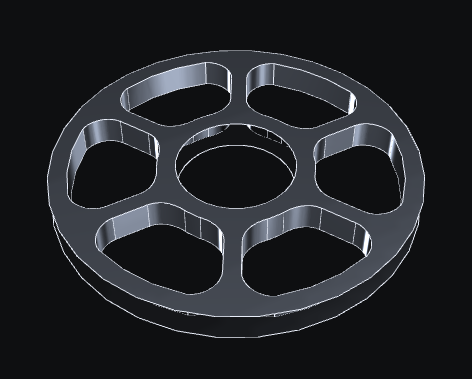
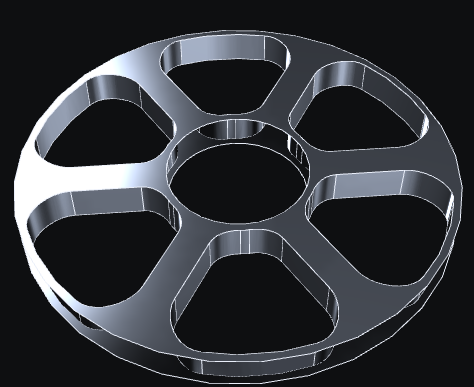
simplified required arguments of gearexterior in order to make it more convenient and flexible, improved roundings flexibility on pattern_rounded

diff --git a/madcad/gear.py b/madcad/gear.py
@@ -21,7 +21,7 @@
 		>>> ext_radius = (3*12)/(2*pi) - 3
 		>>> int_radius = 4
 		>>> geargather(
-		...		gearexterior(repeat_circular(gearprofile(3, 30), 30), ext_radius, 3, 30, depth=4),
+		...		gearexterior(repeat_circular(gearprofile(3, 30), 30), depth=4),
 		...		gearstructure('rounded', ext_radius, int_radius, 2, patterns=6),
 		...		my_hub_mesh,
 		...		)
@@ -33,7 +33,7 @@
 '''
 
 from .mathutils import *
-from .mesh import Web, Wire, Mesh, web
+from .mesh import Web, Wire, Mesh, web, wire
 from .blending import junction, blendpair
 from .generation import extrusion, revolution, repeat, extrans
 from .primitives import Circle, ArcCentered, Segment
@@ -43,7 +43,7 @@ from .rendering import show
 from .cut import bevel
 from . import settings
 
-from math import cos, sin, asin, tan
+from math import *
 from functools import reduce, partial
 from operator import add
 from copy import copy
@@ -221,22 +221,14 @@ def angle(p):
 	return atan2(p[1], p[0])
 
 
-def repeat_circular(gear_profile: Wire, z: int) -> Web:
-	"""
-	Repeat z times `gear_profile` by revolution
-
-	Parameters:
-	
-		gear_profile (Wire): Wire (profile of the pinion generated by the function `gearprofile`)
-		z (int): number of teeth
-	"""
-	# Parameters
-	angle = anglebt(gear_profile[0], gear_profile[-1])
-	axis = (vec3(0,0,0), vec3(0,0,1))
-
-	profile = repeat(gear_profile, z, rotatearound(angle, axis))
-	profile.mergeclose()
-	return profile
+def repeat_circular(profile, n: int) -> Wire:
+	''' Repeat n times the given Wire by rotation around (O,Z) '''
+	result = repeat(profile, n, rotatearound(
+		anglebt(profile[0], profile[-1]), 
+		(vec3(0,0,0), vec3(0,0,1)),
+		))
+	result.mergeclose()
+	return result
 
 
 def pattern_full(ext_radius, int_radius, depth, int_height=0, **kwargs) -> Mesh:
@@ -259,7 +251,7 @@ def pattern_full(ext_radius, int_radius, depth, int_height=0, **kwargs) -> Mesh:
 	half_depth = depth / 2
 	assert half_depth > int_height, "`int_height` must be smaller than `depth / 2`"
 	
-	axis = (vec3(0,0,0), vec3(0,0,1))
+	axis = (O, Z)
 	circles_ref = web(Circle(axis, ext_radius)) + web(Circle(axis, int_radius)).flip()
 	top_profile = circles_ref.transform(vec3(0, 0, half_depth - int_height))
 	bottom_profile = circles_ref.transform(vec3(0, 0, -half_depth + int_height)).flip()
@@ -375,10 +367,10 @@ def create_pattern_rect(
 	"""
 	# Parameters
 	half_depth = depth / 2
-	offset = ratio * 0.15 * (ext_radius - int_radius)
+	offset = ratio * 0.05 * (ext_radius - int_radius)
 	r_ext = ext_radius - (ext_thickness or offset)
 	r_int = int_radius + (int_thickness or offset)
-	thickness = ratio * r_ext / 10  # thickness of "arms"
+	thickness = ratio * 0.15 * r_ext  # thickness of "arms"
 	# angle between the bottom edge of an arm and the middle of it
 	theta_1 = asin(thickness / (2 * r_int))
 	# angle between the top edge of an arm and the middle of it
@@ -402,18 +394,24 @@ def create_pattern_rect(
 
 	# Primitives
 	pattern_ref = web([
-					Segment(A1, A2), 
-					ArcCentered((O, -Z), B1, A1), 
 					Segment(B2, B1), 
+					ArcCentered((O, -Z), B1, A1), 
+					Segment(A1, A2), 
 					ArcCentered((O, Z), A2, B2),
 					])
 
 	# Multiply the pattern of reference
 	if rounded:  # rounded case
-		groups = pattern_ref.groupextremities()
-		bevel(pattern_ref, groups, ("radius", 0.3 * (r_ext - r_int)))
+		bevel(	pattern_ref, 
+				pattern_ref.frontiers(0,1,2), 
+				('radius', min(0.3*(r_ext - r_int), r_int*(angle_step/2-theta_1))),
+				)
+		bevel(	pattern_ref, 
+				pattern_ref.frontiers(2,3,0), 
+				('radius', min(0.3*(r_ext - r_int), r_ext*(angle_step/2-theta_2))),
+				)
 		pattern_ref.mergeclose()
-	pattern_profile = repeat(pattern_ref, patterns, rotatearound(angle_step, axis))
+	pattern_profile = repeat(web(pattern_ref), patterns, rotatearound(angle_step, axis))
 
 	# Profiles and surfaces
 	webs_ref = (pattern_profile.flip(), ext_circle, int_circle)
@@ -423,6 +421,7 @@ def create_pattern_rect(
 	top_profile = reduce(add, top_webs)
 	bottom_profile = reduce(add, bottom_webs)
 	surfaces = extrusion(vec3(0, 0, depth - 2 * int_height), bottom_webs[0].flip())
+	
 	mesh = triangulation(top_profile) + triangulation(bottom_profile) + surfaces
 	mesh.mergeclose()
 	return mesh
@@ -505,9 +504,9 @@ def pattern_rounded(
 
 	
 def minmax_radius(points):
-	min, max = 0, -inf
+	min, max = inf, 0
 	for p in points:
-		r = length2(p)
+		r = length2(vec2(p))
 		if r > max:		max = r
 		elif r < min:	min = r
 	return sqrt(min), sqrt(max)
@@ -515,11 +514,9 @@ def minmax_radius(points):
 		
 
 def gearexterior(
-	profile: Web,
-	min_radius,
-	step,
-	z: int,
+	profile: Wire,
 	depth,
+	step = None,
 	helix_angle = 0,
 	chamfer = 0,
 	**kwargs,
@@ -530,19 +527,20 @@ def gearexterior(
 	Parameters:
 	
 		profile (Web):         profile of the pinion generated by `gearprofile`
-		min_radius (float):    internal radius of the external part
-		step (float):          step of chordal pitch
-		z (int):               number of teeth
 		depth (float):         extrusion eight - width of the gear along its axis
+		step (float):          step of chordal pitch, must be specified for non-null helix_angle, unused otherwise
 		helix_angle (float):   helix angle for helical gears - only without bevel; `bevel` = False - it must be a radian angle
 		chamfer (float):       chamfer angle - only for straight pinion
 	"""
 	# TODO: helical + chamfer
 
 	half_depth = depth / 2
+	
+	# resolution
+	footer, header = minmax_radius(profile.points)
+	
 	# Internal circles
-	axis = (vec3(0, 0, 0), vec3(0, 0, 1))
-	circle_ref = Circle(axis, min_radius, resolution=("div", 3*z)).mesh()
+	circle_ref = wire(Circle((O,Z), footer - 0.3*(header-footer)))
 	top_circle = circle_ref.transform(vec3(0, 0, half_depth))
 	bottom_circle = circle_ref.transform(vec3(0, 0, -half_depth))
 	
@@ -550,29 +548,27 @@ def gearexterior(
 
 	if chamfer:  # chamfer case
 		# create a truncated profile (the top profile of the chamfer)
-		pr = step * z / (2 * pi)  # primitive radius
-		square_pr = pr ** 2
-		Z = vec3(0, 0, 1)
+		start = mix(footer, header, 0.6)  # primitive radius
 		k = tan(chamfer)
 		truncated = deepcopy(profile) # profile which will be truncated
 		for i, point in enumerate(profile.points):
 			# truncate points that overlap the primitive
 			r = length2(point)
-			if r > square_pr:  
+			if r > start**2:  
 				r = sqrt(r)
-				profile.points[i] = point - vec3(0, 0, (r - pr) * k)
-				truncated.points[i] = point * pr / r
+				profile.points[i] = point - vec3(0, 0, (r - start) * k)
+				truncated.points[i] = point * start / r
 
 		# Profiles
 		top_profile = profile.transform(vec3(0, 0, half_depth))
-		bottom_profile = top_profile.transform(scaledir(vec3(0, 0, 1), -1))
+		bottom_profile = top_profile.transform(scaledir(Z, -1))
 		top_truncated = truncated.transform(vec3(0, 0, half_depth))
 		bottom_truncated = truncated.transform(vec3(0, 0, -half_depth))
 
 		# Surfaces
 		bp = partial(junction, tangents="straight", resolution = ("div", 0))
-		top_surface = bp(top_truncated.flip(), top_circle)
-		bottom_surface = bp(bottom_truncated, bottom_circle.flip())
+		top_surface = triangulation(web([top_truncated, top_circle.flip()]))
+		bottom_surface = triangulation(web([bottom_truncated.flip(), bottom_circle]))
 		top_bevel = bp(top_truncated, top_profile.flip())
 		bottom_bevel = bp(bottom_truncated.flip(), bottom_profile)
 		gear_surface = bp(top_profile, bottom_profile.flip())
@@ -583,10 +579,9 @@ def gearexterior(
 	else:
 		if helix_angle:  # helical teeth case
 			# Edges of teeth
-			R = sqrt(max(length2(v) for v in profile.points)) # the largest radius of profile
+			R = header # the largest radius of profile
 			# step to generate a helical transformation
 			step = settings.curve_resolution(depth / cos(helix_angle), depth * tan(helix_angle) / R)
-			Z = vec3(0, 0, 1)
 			angle = depth * tan(helix_angle) / R / (step + 1)
 			h = depth / (step + 1)
 			bottom_gear_edge = profile.transform(vec3(0, 0, -half_depth))
@@ -605,10 +600,11 @@ def gearexterior(
 			gear_surface = extrusion(vec3(0, 0, depth), bottom_gear_edge)
 
 		# Surfaces
-		top_surface = junction(top_gear_edge.flip(), top_circle, tangents="straight")
-		bottom_surface = junction(bottom_gear_edge, bottom_circle.flip(), tangents="straight")
+		top_surface = triangulation(web([top_gear_edge, top_circle.flip()]))
+		bottom_surface = triangulation(web([bottom_gear_edge.flip(), bottom_circle]))
 		mesh = gear_surface + top_surface + bottom_surface
 		mesh.mergeclose()
+	
 	return mesh
 
 
@@ -640,7 +636,7 @@ def gearstructure(
 				the total height will be `total_height = depth - 2 * int_height`
 	"""
 	# int_radius must not be 0
-	int_radius = int_radius if int_radius else 0.1 * ext_radius
+	int_radius = int_radius or 0.1 * ext_radius
 	pattern_function = globals()['pattern_' + pattern]
 	return pattern_function(ext_radius, int_radius, depth, int_height, ratio=ratio, **kwargs)
 
@@ -671,7 +667,7 @@ def gearhub(
 	"""
 	if not (bore_radius):  # No hub case
 		half_depth = depth / 2
-		circle_ref = web(Circle((vec3(0, 0, 0), vec3(0, 0, 1)), depth * 0.1))
+		circle_ref = web(Circle((O,Z), depth * 0.1))
 		circle_ref = triangulation(circle_ref)
 		top_surface = circle_ref.transform(vec3(0, 0, half_depth - int_height))
 		bottom_surface = circle_ref.transform(vec3(0, 0, -half_depth + int_height)).flip()
@@ -809,14 +805,17 @@ def gear(
 	"""
 	profile = repeat_circular(gearprofile(step, z, **kwargs), z)
 
-	min_radius = 0.95 * sqrt(min(length2(v) for v in profile.points))
-	#coeff = 1 - int_height / min_radius if int_height else 0.95
-	coeff = 0.95
-
 	# Parts
-	exterior = gearexterior(profile, min_radius, step, z, depth, **kwargs)
+	exterior = gearexterior(profile, depth, step, **kwargs)
 	hub = gearhub(bore_radius, depth, int_height, **kwargs)
-	structure = gearstructure(pattern, coeff * min_radius, hub.box().width.x/2, depth, int_height, **kwargs)
+	ext_int = minmax_radius(exterior.points)[0]
+	structure = gearstructure(
+					pattern, 
+					ext_int * 0.95, 
+					max(minmax_radius(hub.points)[1], 0.2*ext_int), 
+					depth, 
+					int_height, 
+					**kwargs)
 	return geargather(exterior, structure, hub)
 
 

diff --git a/docs/reference/mesh.rst b/docs/reference/mesh.rst
@@ -99,6 +99,8 @@ classes
 	
 		.. automethod:: extremities
 		.. automethod:: groupextremities
+		.. automethod:: frontiers
+		.. automethod:: group
 		.. automethod:: arcs
 		.. automethod:: box
 		.. automethod:: precision

diff --git a/docs/reference/gear.rst b/docs/reference/gear.rst
@@ -54,6 +54,7 @@ helper tools
 .. autofunction:: involute
 .. autofunction:: involuteat
 .. autofunction:: involuteof
+.. autofunction:: repeat_circular
 
 structure patterns
 ------------------
